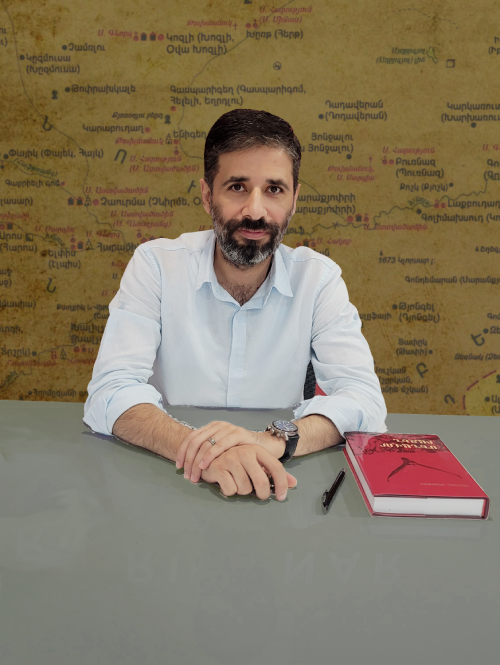
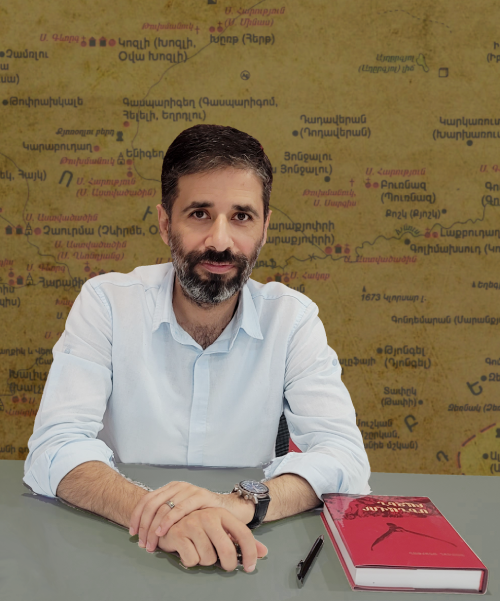
show 2 books minimum

diff --git a/js/custom.js b/js/custom.js
@@ -29,9 +29,9 @@ $('.navbar-collapse ul li a').click(function() {
 ----------------------------------------------*/
 $(document).ready(function() {
 $("#screenshots").owlCarousel({
-	items: 4,
+	items: 5,
 	itemsCustom : [
-		[0, 1],
+		[0, 2],
 		[480, 2],
 		[768, 3],
 		[992, 4]
@@ -41,9 +41,9 @@ $("#screenshots").owlCarousel({
 
 $(document).ready(function() {
 $("#films").owlCarousel({
-    items: 2,
+    items: 3,
     itemsCustom : [
-        [0, 1],
+        [0, 2],
         [480, 2],
         [768, 3],
         [992, 4]
